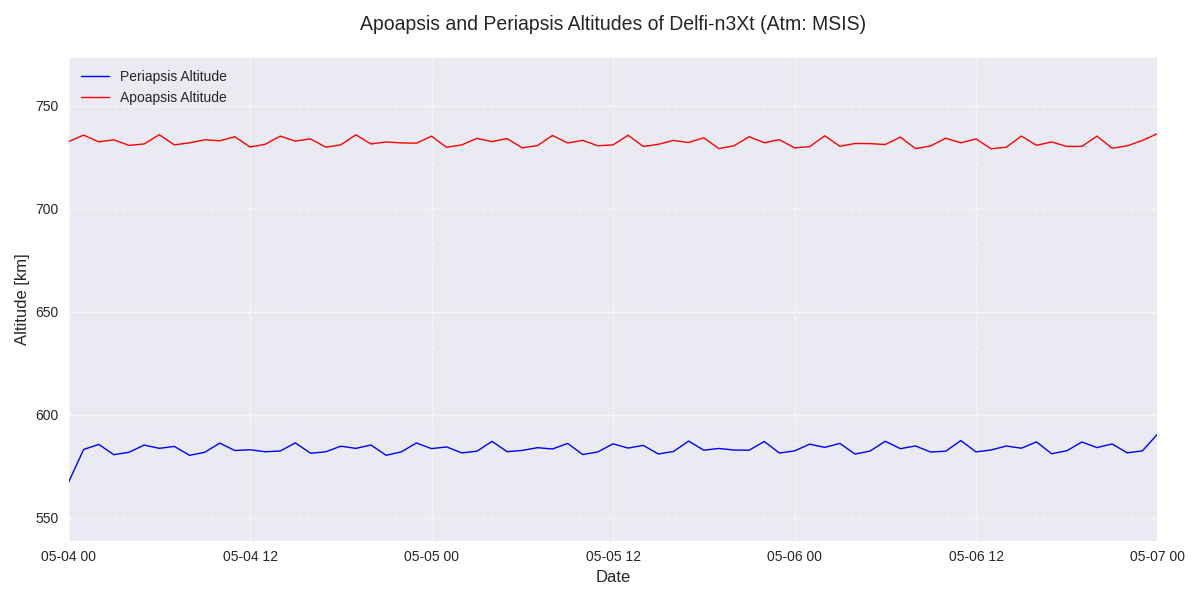
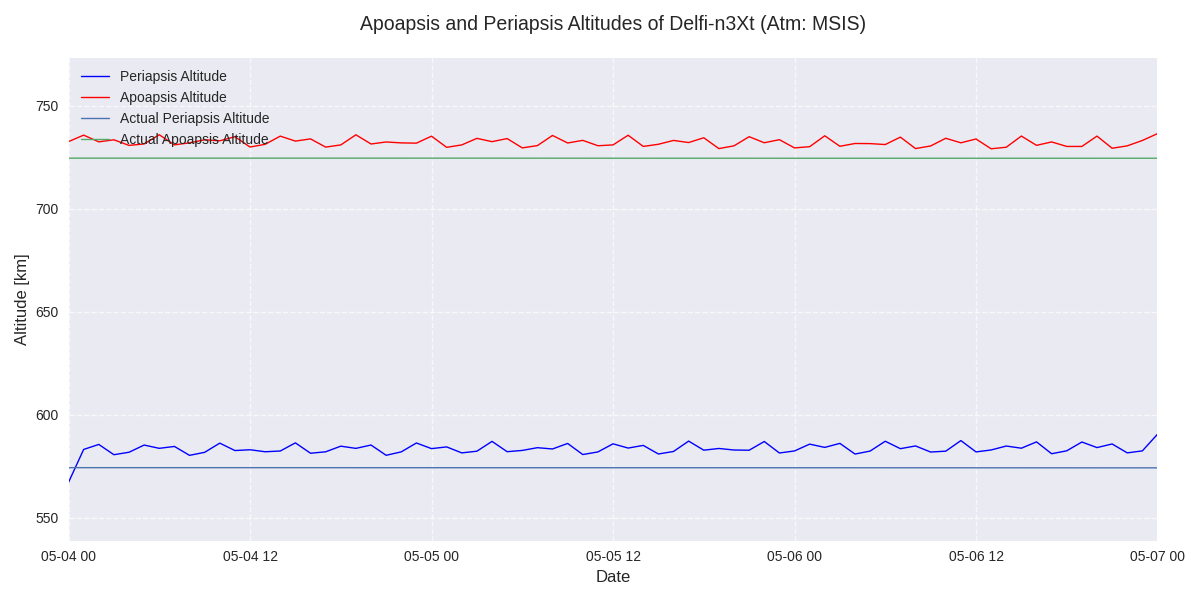
tle_extract implemented

Changed region(s): [[0.0617, 0.18, 0.9558, 0.27]]

diff --git a/main.py b/main.py
@@ -381,11 +381,14 @@ def main(tle_data_n3Xt):
     except:
         plt.style.use('ggplot')
     
-    actual_periapsis, actual_apoapsis, actial_hours = TLE_extract("TLEs_Satellites/"+satname+"_TLE")
+    actual_periapsis, actual_apoapsis, _ , actual_dates = TLE_extract("TLEs_Satellites/"+satname+"_TLE")
 
     fig, ax1 = plt.subplots(figsize=(12, 6))
     ax1.plot(resampled_dates, resampled_data['periapsis'], 'b-', label='Periapsis Altitude', linewidth=1)
     ax1.plot(resampled_dates, resampled_data['apoapsis'], 'r-', label='Apoapsis Altitude', linewidth=1)
+    ax1.plot(actual_dates, actual_periapsis, label='Actual Periapsis Altitude', linewidth=1)
+    ax1.plot(actual_dates, actual_apoapsis, label='Actual Apoapsis Altitude', linewidth=1)
+    
     ax1.plot()
     ax1.set_xlabel('Date', fontsize=12)
     ax1.set_ylabel('Altitude [km]', fontsize=12)
